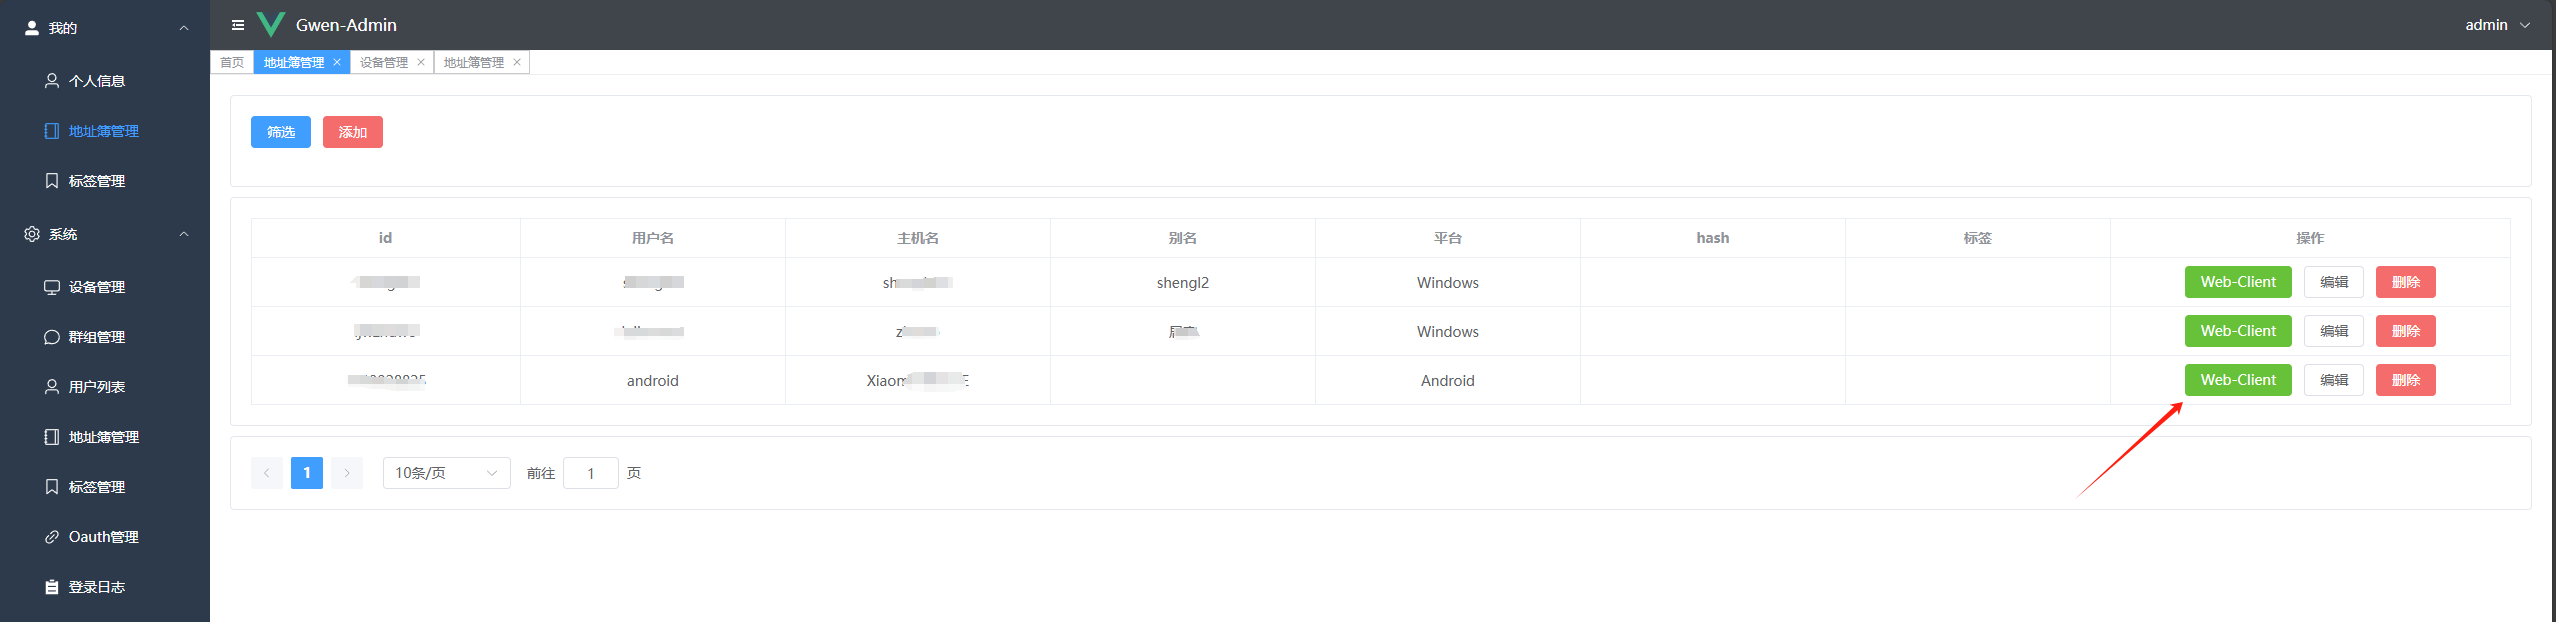
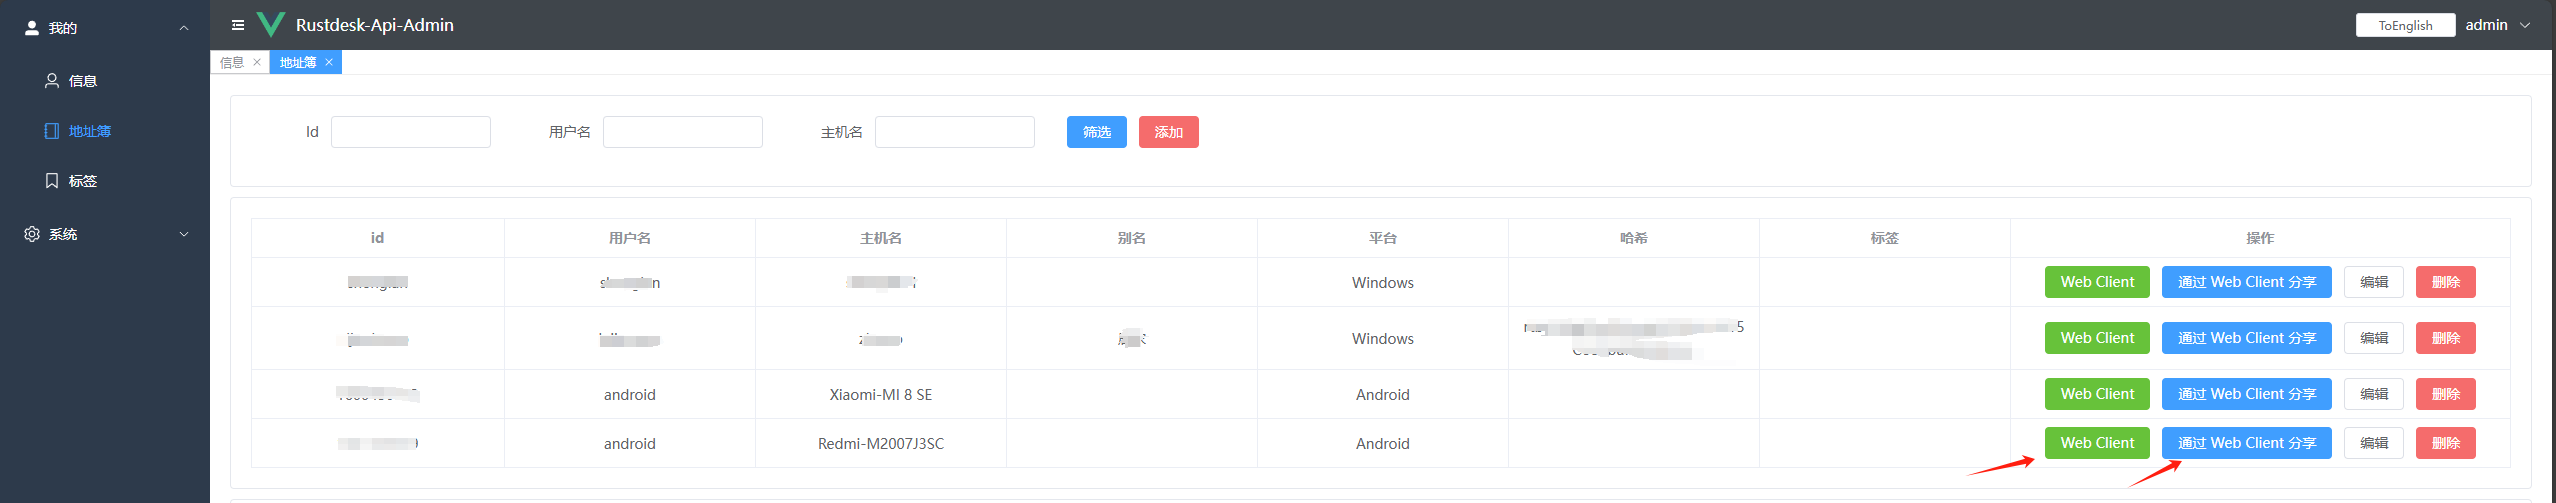
up readme

diff --git a/README_EN.md b/README_EN.md
@@ -44,7 +44,8 @@ desktop software that provides self-hosted solutions.
 #### The PC client uses version ***1.3.0***, and versions ***1.2.6+*** have been tested to work.
 
 #### Solutions for PC client connection timeout or connection issues
-- The connection issue is due to the server version lagging behind the client version, causing the server to not respond to the client's `secure_tcp` request, resulting in a timeout.
+##### Connection issues or timeouts
+Because the server version lags behind the client version, the server does not respond to the client's `secure_tcp` request, causing the client to timeout.
   Relevant code can be found at `https://github.com/rustdesk/rustdesk/blob/master/src/client.rs#L322`
   ```rust
     if !key.is_empty() && !token.is_empty() {
@@ -56,34 +57,36 @@ desktop software that provides self-hosted solutions.
 As seen, when both `key` and `token` are not empty, `secure_tcp` is called, but the server does not respond, causing the client to timeout.
 The `secure_tcp` code is located at `https://github.com/rustdesk/rustdesk/blob/master/src/common.rs#L1203`
 
-- ***Solutions***
-    1. Specify the key on the server.
-        - Advantage: Simple
-        - Disadvantage: The connection is not encrypted
-           ```bash
-           hbbs -r <relay-server-ip[:port]> -k <key>
-           hbbr -k <key>
-           ```
-          For example
-           ```bash
-             hbbs -r <relay-server-ip[:port]> -k abc1234567
-             hbbr -k abc1234567
-           ```
-    2. Use a system-generated key or a custom key pair on the server. If the client is already logged in, it may timeout or fail to connect. Logging out and reconnecting usually resolves the issue, and the web client does not need to log out.
-        - Advantage: Encrypted connection
-        - Disadvantage: Complicated operation
-    3. Use a system-generated key or a custom key pair on the server, fork the official client code to modify `secure_tcp` to return directly, then compile using `Github Actions` and download the compiled client.
-       Refer to [official documentation](https://rustdesk.com/docs/en/dev/build/all/)
-        - Advantage: Encrypted connection, customizable client features, ready to use after compilation
-        - Disadvantage: Requires forking code and compiling, which can be challenging
-    4. Use [my forked code](https://github.com/lejianwen/rustdesk), which has already modified `secure_tcp`. You can download and use it directly from [here](https://github.com/lejianwen/rustdesk/releases)
-        - Advantage: Code changes are viewable, compiled with `Github Actions`, encrypted connection, ready to use
-        - Disadvantage: May not keep up with official version updates
-##### If encryption is not a high priority, use `1`. If encryption is important, use `3` or `4`.
+##### Four Solutions
+1. Specify the key on the server.
+    - Advantage: Simple
+    - Disadvantage: The connection is not encrypted
+       ```bash
+       hbbs -r <relay-server-ip[:port]> -k <key>
+       hbbr -k <key>
+       ```
+      For example
+       ```bash
+         hbbs -r <relay-server-ip[:port]> -k abc1234567
+         hbbr -k abc1234567
+       ```
+2. Use a system-generated key or a custom key pair on the server. If the client is already logged in, it may timeout or fail to connect. Logging out and reconnecting usually resolves the issue, and the web client does not need to log out.
+    - Advantage: Encrypted connection
+    - Disadvantage: Complicated operation
+3. Use a system-generated key or a custom key pair on the server, fork the official client code to modify `secure_tcp` to return directly, then compile using `Github Actions` and download the compiled client.
+   Refer to [official documentation](https://rustdesk.com/docs/en/dev/build/all/)
+    - Advantage: Encrypted connection, customizable client features, ready to use after compilation
+    - Disadvantage: Requires forking code and compiling, which can be challenging
+4. Use [my forked code](https://github.com/lejianwen/rustdesk), which has already modified `secure_tcp`. You can download and use it directly from [here](https://github.com/lejianwen/rustdesk/releases)
+    - Advantage: Code changes are viewable, compiled with `Github Actions`, encrypted connection, ready to use
+    - Disadvantage: May not keep up with official version updates
+   
+***If encryption is not a high priority, use `1`. If encryption is important, use `3` or `4`.***
 
 ## Overview
 
-### API Service: Basic implementation of the PC client's primary interfaces.Supports the Personal version api, which can be enabled by configuring the `rustdesk.personal` file or the `RUSTDESK_API_RUSTDESK_PERSONAL` environment variable.
+### API Service
+Basic implementation of the PC client's primary interfaces.Supports the Personal version api, which can be enabled by configuring the `rustdesk.personal` file or the `RUSTDESK_API_RUSTDESK_PERSONAL` environment variable.
 
 #### Login
 
@@ -97,17 +100,18 @@ The `secure_tcp` code is located at `https://github.com/rustdesk/rustdesk/blob/m
 
 ![pc_ab](docs/en_img/pc_ab.png)
 
-#### Groups: Groups are divided into `shared groups` and `regular groups`. In shared groups, everyone can see the peers of all group members, while in regular groups, only administrators can see all members' peers.
+#### Groups
+Groups are divided into `shared groups` and `regular groups`. In shared groups, everyone can see the peers of all group members, while in regular groups, only administrators can see all members' peers.
 
 ![pc_gr](docs/en_img/pc_gr.png)
 
 ### Web Admin
 
-***The frontend and backend are separated to provide a user-friendly management interface, primarily for managing and
-displaying data.Frontend code is available at [rustdesk-api-web](https://github.com/lejianwen/rustdesk-api-web)***
+* The frontend and backend are separated to provide a user-friendly management interface, primarily for managing and
+displaying data.Frontend code is available at [rustdesk-api-web](https://github.com/lejianwen/rustdesk-api-web)
 
-***Admin panel URL: `http://<your server[:port]>/_admin/`. The default username and password for the initial
-installation are `admin` `admin`, please change the password immediately.***
+* Admin panel URL: `http://<your server[:port]>/_admin/`. The default username and password for the initial
+installation are `admin` `admin`, please change the password immediately.
 
 1. Admin interface:
    ![web_admin](docs/en_img/web_admin.png)
@@ -117,7 +121,7 @@ installation are `admin` `admin`, please change the password immediately.***
    ![web_resetpwd](docs/en_img/web_resetpwd.png)
 3. Groups can be customized for easy management. Currently, two types are supported: `shared group` and `regular group`.
    ![web_admin_gr](docs/en_img/web_admin_gr.png)
-4. You can open the web client directly for convenience:
+4. You can directly open the web client for convenient use; it can also be shared with guests, allowing them to remotely access the device via the web client.
    ![web_webclient](docs/en_img/admin_webclient.png)
 5. OAuth support: Currently, `GitHub` and `Google`  is supported. You need to create an `OAuth App` and configure it in
    the admin
@@ -179,9 +183,8 @@ logger:
   report-caller: true
 ```
 
-* Environment variables, with the prefix `RUSTDESK_API_RUSTDESK_PERSONAL`, will override the settings in the
-  configuration file if
-  present.
+### Environment Variables
+The prefix for variable names is `RUSTDESK_API`. If environment variables exist, they will override the configurations in the configuration file.
 
 | Variable Name                      | Description                                               | Example                        |
 |------------------------------------|-----------------------------------------------------------|--------------------------------|
@@ -454,7 +457,22 @@ Download the release from [release](https://github.com/lejianwen/rustdesk-api/re
 6. Open your browser and visit `http://<your server[:port]>/_admin/`, with default credentials `admin admin`. Please
    change the password promptly.
 
-## Miscellaneous
+#### nginx reverse proxy
+Configure reverse proxy in `nginx`
+```
+server {
+    listen <your port>;
+    server_name <your server>;
+    location / {
+        proxy_pass http://<api-server[:port]>;
+        proxy_set_header Host $host;
+        proxy_set_header X-Real-IP $remote_addr;
+        proxy_set_header X-Forwarded-For $proxy_add_x_forwarded_for;
+        proxy_set_header X-Forwarded-Proto $scheme;
+    }
+}
+```
+## Others
 
 - [Change client ID](https://github.com/abdullah-erturk/RustDesk-ID-Changer)
-- [webclient](https://hub.docker.com/r/keyurbhole/flutter_web_desk)
+- [Web client source](https://hub.docker.com/r/keyurbhole/flutter_web_desk)

diff --git a/README.md b/README.md
@@ -44,8 +44,9 @@
 #### PC客户端使用的是 ***1.3.0***，经测试 ***1.2.6+*** 都可以
 
 #### 关于PC端链接超时或者链接不上的问题以及解决方案
-- 链接不上是因为server端相对于客户端落后版本，server不会响应客户端的`secure_tcp`请求，所以客户端超时
-  相关代码代码位置在`https://github.com/rustdesk/rustdesk/blob/master/src/client.rs#L322`
+##### 链接不上是或者超时
+因为server端相对于客户端落后版本，server不会响应客户端的`secure_tcp`请求，所以客户端超时。
+相关代码代码位置在`https://github.com/rustdesk/rustdesk/blob/master/src/client.rs#L322`
   ```rust
     if !key.is_empty() && !token.is_empty() {
     // mainly for the security of token
@@ -55,35 +56,36 @@
   可看到当`key`和`token`都不为空时，会调用`secure_tcp`，但是server端不会响应，所以客户端超时
   `secure_tcp` 代码位置在 `https://github.com/rustdesk/rustdesk/blob/master/src/common.rs#L1203`
   
-- ***解决方案***
-
-  1. server端指定key。
-      - 优点：简单
-      - 缺点：链接不是加密的
-         ```bash
-         hbbs -r <relay-server-ip[:port]> -k <key>
-         hbbr -k <key>
-         ```
-         比如
-         ```bash
-           hbbs -r <relay-server-ip[:port]> -k abc1234567
-           hbbr -k abc1234567
-         ```
-  2. server端使用系统生成的key，或者自定义的密钥对，但如果client已登录，链接时容易超时或者链接不上，可以退出登录后再链接就可以了，webclient可以不用退出登录
-      - 优点：链接加密
-      - 缺点：操作麻烦
-  3. server端使用系统生成的key，或者自定义的密钥对，fork官方客户端的代码将`secure_tcp`修改成直接返回，然后通过`Github Actions`编译，下载编译后的客户端。
-  参考[官方文档](https://rustdesk.com/docs/en/dev/build/all/)
-      - 优点：链接加密，可以自定义客户端一些功能，编译后直接可用
-      - 缺点：需要自己fork代码，编译，有点难度
-  4. 使用[我fork的代码](https://github.com/lejianwen/rustdesk)，已经修改了`secure_tcp`，可以直接下载使用，[下载地址](https://github.com/lejianwen/rustdesk/releases)
-      - 优点：代码改动可查看，`Github Actions`编译，链接加密，直接下载使用
-      - 缺点：可能跟不上官方版本更新
-##### 对链接加密要求不高的可以使用`1`，对链接加密要求高的可以使用`3`或`4`
+##### 4种解决方案
+1. server端指定key。
+    - 优点：简单
+    - 缺点：链接不是加密的
+       ```bash
+       hbbs -r <relay-server-ip[:port]> -k <key>
+       hbbr -k <key>
+       ```
+       比如
+       ```bash
+         hbbs -r <relay-server-ip[:port]> -k abc1234567
+         hbbr -k abc1234567
+       ```
+2. server端使用系统生成的key，或者自定义的密钥对，但如果client已登录，链接时容易超时或者链接不上，可以退出登录后再链接就可以了，webclient可以不用退出登录
+    - 优点：链接加密
+    - 缺点：操作麻烦
+3. server端使用系统生成的key，或者自定义的密钥对，fork官方客户端的代码将`secure_tcp`修改成直接返回，然后通过`Github Actions`编译，下载编译后的客户端。
+参考[官方文档](https://rustdesk.com/docs/en/dev/build/all/)
+    - 优点：链接加密，可以自定义客户端一些功能，编译后直接可用
+    - 缺点：需要自己fork代码，编译，有点难度
+4. 使用[我fork的代码](https://github.com/lejianwen/rustdesk)，已经修改了`secure_tcp`，可以直接下载使用，[下载地址](https://github.com/lejianwen/rustdesk/releases)
+    - 优点：代码改动可查看，`Github Actions`编译，链接加密，直接下载使用
+    - 缺点：可能跟不上官方版本更新
+     
+***对链接加密要求不高的可以使用`1`，对链接加密要求高的可以使用`3`或`4`***
 
 ## 功能
 
-### API 服务: 基本实现了PC端基础的接口。支持Personal版本接口，可以通过配置文件`rustdesk.personal`或环境变量`RUSTDESK_API_RUSTDESK_PERSONAL`来控制是否启用
+### API 服务 
+基本实现了PC端基础的接口。支持Personal版本接口，可以通过配置文件`rustdesk.personal`或环境变量`RUSTDESK_API_RUSTDESK_PERSONAL`来控制是否启用
 
 #### 登录
 
@@ -96,26 +98,27 @@
 
 ![pc_ab](docs/pc_ab.png)
 
-#### 群组,群组分为`共享组`和`普通组`，共享组中所有人都能看到小组成员的设备，普通组只有管理员能看到所有小组成员的设备
+#### 群组
+群组分为`共享组`和`普通组`，共享组中所有人都能看到小组成员的设备，普通组只有管理员能看到所有小组成员的设备
 
 ![pc_gr](docs/pc_gr.png)
 
 ### Web Admin:
 
-***使用前后端分离，提供用户友好的管理界面，主要用来管理和展示。前端代码在[rustdesk-api-web](https://github.com/lejianwen/rustdesk-api-web)***
+* 使用前后端分离，提供用户友好的管理界面，主要用来管理和展示。前端代码在[rustdesk-api-web](https://github.com/lejianwen/rustdesk-api-web)
 
-***后台访问地址是`http://<your server>[:port]/_admin/`初次安装管理员为用户名密码为`admin` `admin`，请即时更改密码***
+* 后台访问地址是`http://<your server>[:port]/_admin/`初次安装管理员为用户名密码为`admin` `admin`，请即时更改密码
 
 1. 管理员界面
    ![web_admin](docs/web_admin.png)
 2. 普通用户界面
    ![web_user](docs/web_admin_user.png)
-   右上角也可以更改密码
+   右上角可以更改密码,也可以切换语言
    ![web_resetpwd](docs/web_resetpwd.png)
 
 3. 分组可以自定义，方便管理，暂时支持两种类型: `共享组` 和 `普通组`
    ![web_admin_gr](docs/web_admin_gr.png)
-4. 可以直接打开webclient，方便使用
+4. 可以直接打开webclient，方便使用；也可以分享给游客，游客可以直接通过webclient远程到设备
    ![web_webclient](docs/admin_webclient.png)
 5. Oauth,暂时只支持了`Github`和`Google`, 需要创建一个`OAuth App`，然后配置到后台
    ![web_admin_oauth](docs/web_admin_oauth.png)
@@ -174,7 +177,8 @@ logger:
   report-caller: true
 ```
 
-* 环境变量,变量名前缀是RUSTDESK_API，环境变量如果存在将覆盖配置文件中的配置
+### 环境变量
+变量名前缀是`RUSTDESK_API`，环境变量如果存在将覆盖配置文件中的配置
 
 | 变量名                                 | 说明                                   | 示例                          |
 |-------------------------------------|--------------------------------------|-----------------------------|
@@ -441,7 +445,22 @@ logger:
 
 6. 打开浏览器访问`http://<your server[:port]>/_admin/`，默认用户名密码为`admin`，请及时更改密码。
 
+#### nginx反代
+在`nginx`中配置反代
+```
+server {
+    listen <your port>;
+    server_name <your server>;
+    location / {
+        proxy_pass http://<api-server[:port]>;
+        proxy_set_header Host $host;
+        proxy_set_header X-Real-IP $remote_addr;
+        proxy_set_header X-Forwarded-For $proxy_add_x_forwarded_for;
+        proxy_set_header X-Forwarded-Proto $scheme;
+    }
+}
+```
 ## 其他
 
 - [修改客户端ID](https://github.com/abdullah-erturk/RustDesk-ID-Changer)
-- [webclient](https://hub.docker.com/r/keyurbhole/flutter_web_desk)
+- [webclient来源](https://hub.docker.com/r/keyurbhole/flutter_web_desk)
